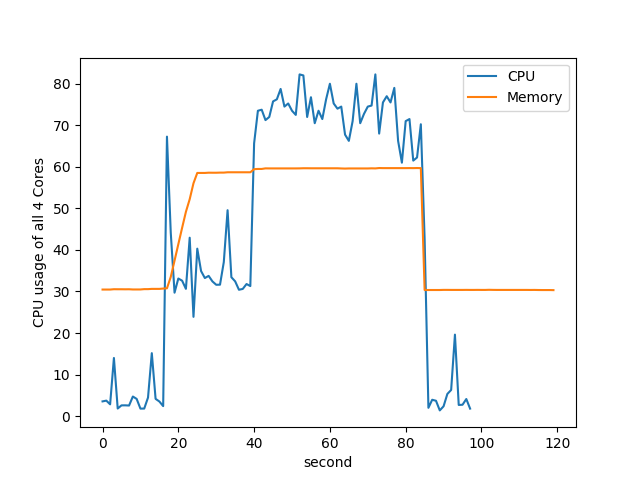
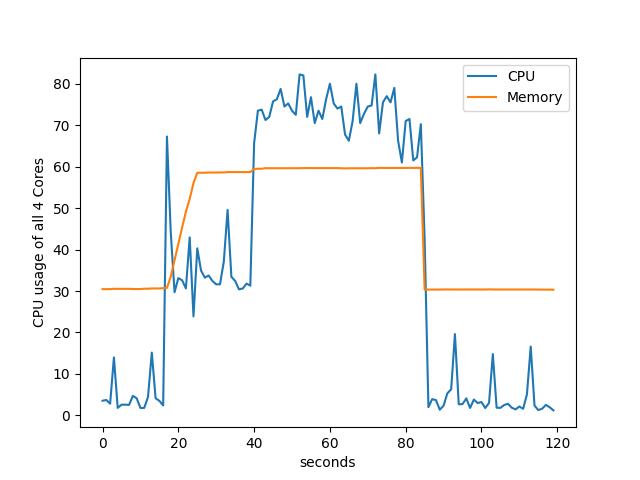
update

diff --git a/main.py b/main.py
@@ -26,7 +26,7 @@ print(memory)
 
 plt.plot(c, label="CPU")
 plt.plot(memory, label="Memory")
-plt.xlabel("second")
+plt.xlabel("seconds")
 plt.legend()
 plt.ylabel("CPU usage of all 4 Cores")
 plt.savefig("plotCPUUsage.png")
